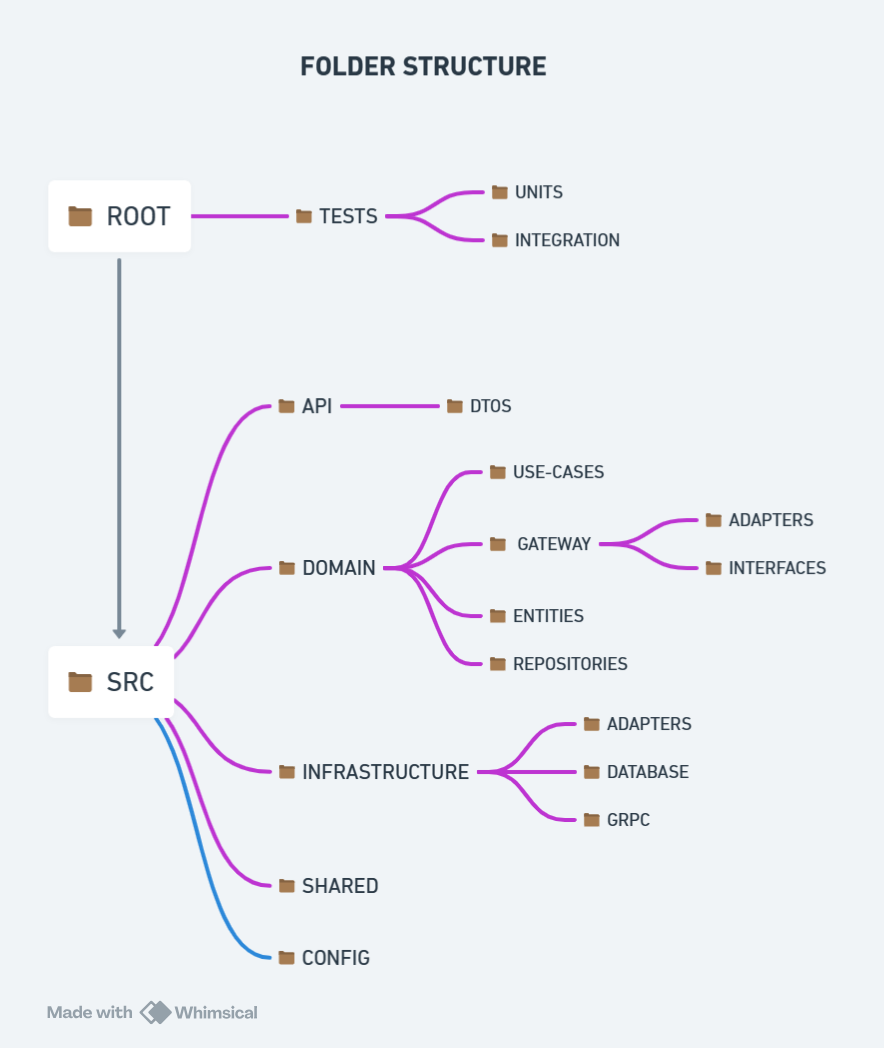
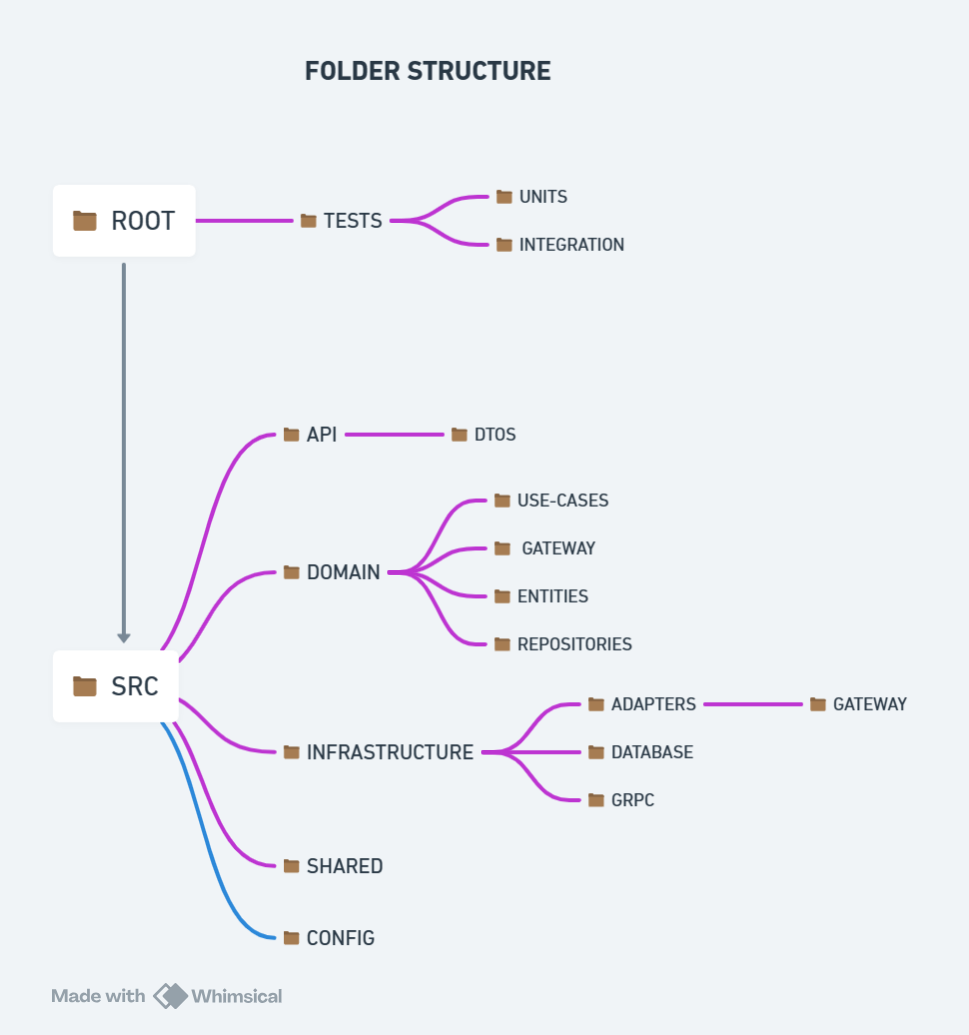
docs: atualize o readme
Ajustado o readme and image

diff --git a/README.md b/README.md
@@ -16,9 +16,10 @@ Aqui, você encontra uma representação visual das estruturas de pastas do micr
       - **ENTITIES**: Representam as entidades de negócios e objetos do domínio.
       - **REPOSITORIES**: Interfaces para a camada de acesso a dados, abstraindo a lógica de persistência.
       - **USE-CASES**: Contêm a lógica de aplicação, coordenando o fluxo de dados entre a UI e o domínio.
-      - **GATEWAY**: Adaptadores para conexão com microserviços externos.
+      - **GATEWAY**: Interfaces para a camada de acesso a dados, abstraindo a lógica de gateways.
     - **INFRASTRUCTURE**: Detalhes técnicos que suportam as camadas de aplicação, como banco de dados e comunicação de rede.
       - **ADAPTERS**: Implementações concretas de interfaces, como adaptadores de banco de dados ou serviços externos.
+        - **GATEWAY**: Adaptadores para conexão com microserviços externos.
       - **DATABASE**: Configurações e scripts relacionados ao banco de dados.
       - **GRPC**: Interfaces protobuf para comunicação via gRPC.
     - **REPRESENTATION**: Define interfaces de usuário, incluindo adaptadores para frameworks MVC, APIs REST, etc.
